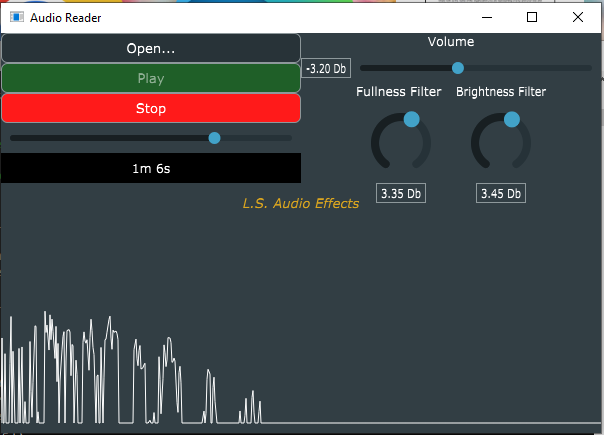
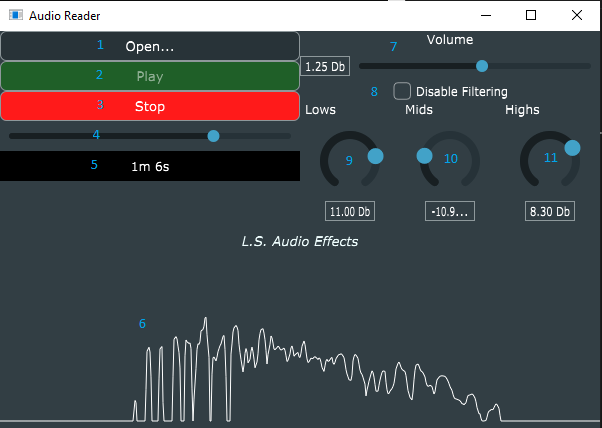
Update readme

diff --git a/README.md b/README.md
@@ -7,17 +7,19 @@ Moreover a few DSP blocks allow to apply a gain and change the tonal balance tha
 
 ## Audio Reader App GUI Description 
 
-![reader_numbered](figs/reader_numbered.PNG)
+![reader_numbered](figs/reader.PNG)
 
 1. Button for choosing a WAV file to read and play
 2. Once a WAV file is chosen it can be played pressing this button
 3. Stop the reproduction of audio and bringing back the audio file to initial position
-4. This slider moves according to reproiction time. Moving slider position is possible to move time position on audio track as well. Acrive only when audio is playing.
-5. Label to display reproduction time of the track.
-6. When the audio is playing FFT is real-time is computed and shown.
-7. Slider to change audio vulume applying a gain in Db.
-8. Low Shelving filter with cut frequency of 500Hz. It can boost of cut the low end and part of the mid range of the audio signal.
-9. High Shelving filter with cut frequency of 2500Hz. It can boost or cut the high end of audio signal. 
+4. This slider moves according to playing track time. Moving the slider position it is possible to change time position of the audio track as well. Active only when audio is playing.
+5. Label for displaying reproduction time of the track.
+6. When the audio is playing FFT is computed in real-time and shown.
+7. Slider to change vulume, applys a gain in Db.
+8. Toggle button to disable or enabling the filtering. When clicked the three filters are sisabled and the original audio is played.
+9. Low Shelving filter with cut frequency of 400Hz. It can boost or cut the low end of the audio signal.
+10. Peaking filter with centre frequency of 700Hz. It can boost or cut the mid range frequencies of the audio.
+11. High Shelving filter with cut frequency of 2000Hz. It can boost or cut the high end of audio signal. 
 
 # How to Install and Run the Projectt
 
